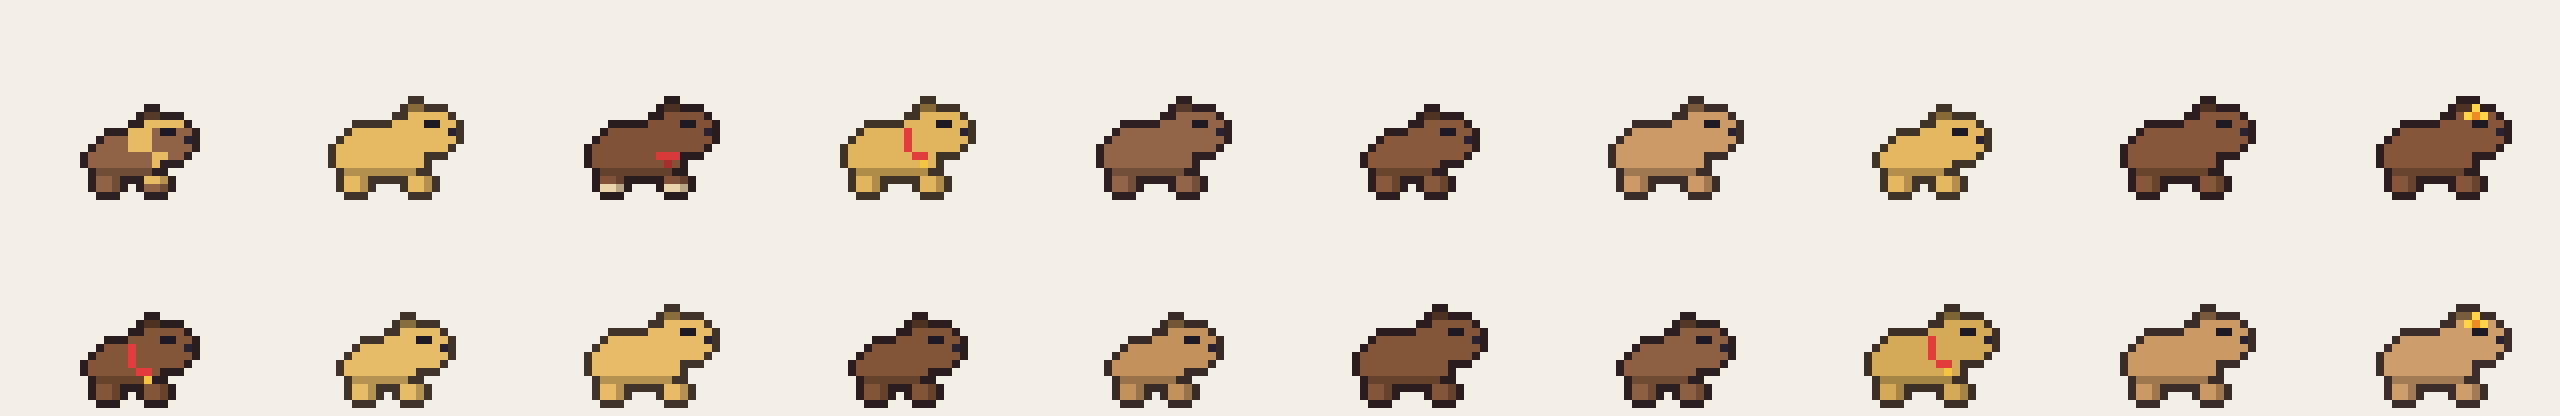
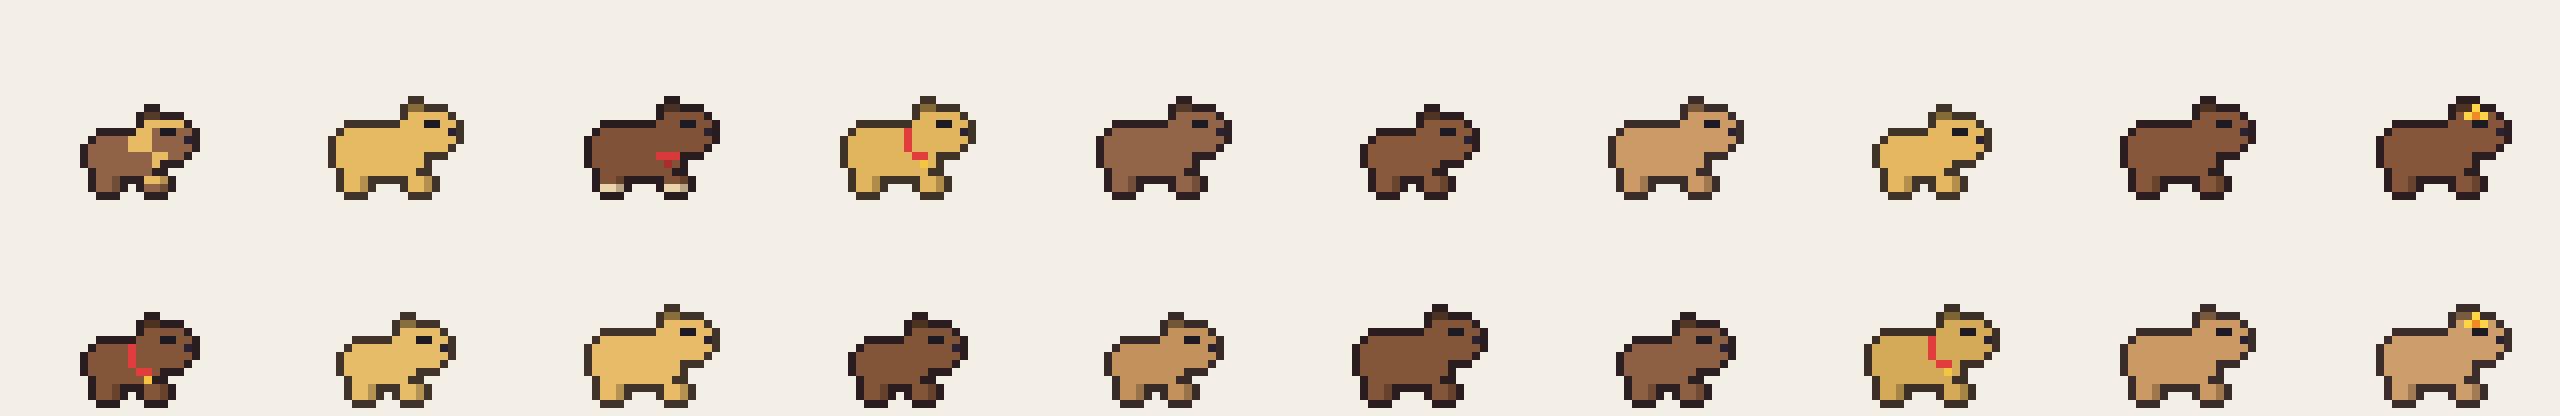
Draw the capybara with the standard body and face code
The capybara painted its own body (rump, neck and a stepped sitting
shape) and its own face. With the default skeleton, the shared body
gives almost the same result, so it now uses that. The face is drawn
in paintFace with the other species, with one line for its eye.

diff --git a/Sources/PRPetsArt/SpeciesAnatomy.swift b/Sources/PRPetsArt/SpeciesAnatomy.swift
@@ -34,10 +34,6 @@ struct SpeciesAnatomy {
 
     func paintBody(on canvas: inout PaintCanvas) {
         let body = skeleton.body
-        if genome.species == .capybara {
-            paintCapybaraBody(on: &canvas)
-            return
-        }
         switch skeleton.posture {
         case .standing, .lying:
             canvas.fillRounded(x: body.x, y: body.y, .body)
@@ -52,36 +48,6 @@ struct SpeciesAnatomy {
         canvas.recolour(x: chestColumns, y: (body.y.lowerBound + 1)...body.y.upperBound, from: .body, to: .chest)
     }
 
-    private func paintCapybaraBody(on canvas: inout PaintCanvas) {
-        let body = skeleton.body
-        let (left, right, top, bottom) = (body.x.lowerBound, body.x.upperBound, body.y.lowerBound, body.y.upperBound)
-        switch skeleton.posture {
-        case .standing, .lying:
-            // A flat back with the rump rounding off behind.
-            canvas.fill(x: (left + 2)...right, y: top...top, .body)
-            canvas.fill(x: (left + 1)...right, y: (top + 1)...(top + 1), .body)
-            canvas.fill(x: left...right, y: (top + 2)...(bottom - 1), .body)
-            canvas.fill(x: (left + 1)...(right - 1), y: bottom...bottom, .body, .coatShade)
-            if skeleton.posture == .standing {
-                // A thick neck lifts the head above the line of the back.
-                canvas.fill(x: (headX - 2)...(headX + 1), y: (headY + 2)...top, .body)
-                canvas.paint(headX - 1, headY + 1, .body)
-            }
-        case .sitting:
-            // Upright and compact: the back steps down from the head to a big round haunch on the ground,
-            // with the chest dropping straight down under the chin.
-            for row in (headY + 1)...bottom {
-                let stepping = max(left, headX - (row - headY))
-                let rounding = max(0, row - (bottom - 2))
-                canvas.fill(x: (stepping + rounding)...right, y: row...row, .body)
-            }
-            // The crease where the haunch meets the front leg.
-            let creaseX = (left + right) / 2
-            canvas.fill(x: creaseX...creaseX, y: (bottom - 4)...(bottom - 1), .body, .coatDeep)
-        }
-        canvas.recolour(x: (right - 1)...right, y: (top + 1)...bottom, from: .body, to: .chest)
-    }
-
     // MARK: Head
 
     func paintHead(on canvas: inout PaintCanvas) {
@@ -89,10 +55,7 @@ struct SpeciesAnatomy {
         switch genome.species {
         case .bunny:
             canvas.fillRounded(x: (headX + 1)...headRight, y: rows, .head)
-        case .cat, .dog, .fox:
-            canvas.fillRounded(x: headX...headRight, y: rows, .head)
-        case .capybara:
-            // A long, flat-topped block with a deep, square-ended snout.
+        case .cat, .dog, .fox, .capybara:
             canvas.fillRounded(x: headX...headRight, y: rows, .head)
         }
         switch genome.species {
@@ -114,14 +77,13 @@ struct SpeciesAnatomy {
     }
 
     func paintFace(on canvas: inout PaintCanvas) {
-        if genome.species == .capybara {
-            paintCapybaraFace(on: &canvas)
-            return
-        }
         let eyeRow = headY + 2
         let (farEyeX, nearEyeX) = eyeColumns
         for eyeX in [farEyeX, nearEyeX] {
-            if skeleton.eyesClosed {
+            if genome.species == .capybara {
+                // Side-on, so one calm, half-closed dash set high on the head. Closed, a darker line in the fur.
+                canvas.paint(eyeX, headY + 1, .head, skeleton.eyesClosed ? .coatDeep : .iris)
+            } else if skeleton.eyesClosed {
                 canvas.paint(eyeX, eyeRow + 1, .head, .eyelid)
             } else {
                 canvas.paint(eyeX, eyeRow, .head, .pupil)
@@ -140,16 +102,8 @@ struct SpeciesAnatomy {
         case .fox:
             canvas.paint(headRight + 2, headY + 4, .muzzle, .nose)
         case .capybara:
-            break
+            canvas.paint(headRight, headY + 2, .muzzle, .nose)
         }
-    }
-
-    /// Side-on, so only one eye shows: a calm, half-closed dash set high on the head.
-    private func paintCapybaraFace(on canvas: inout PaintCanvas) {
-        let eyeX = headX + 3
-        // Closed, it's just a darker line in the fur.
-        canvas.fill(x: eyeX...(eyeX + 1), y: (headY + 1)...(headY + 1), .head, skeleton.eyesClosed ? .coatDeep : .iris)
-        canvas.paint(headRight, headY + 2, .muzzle, .nose)
     }
 
     private var eyeColumns: (far: Int, near: Int) {
